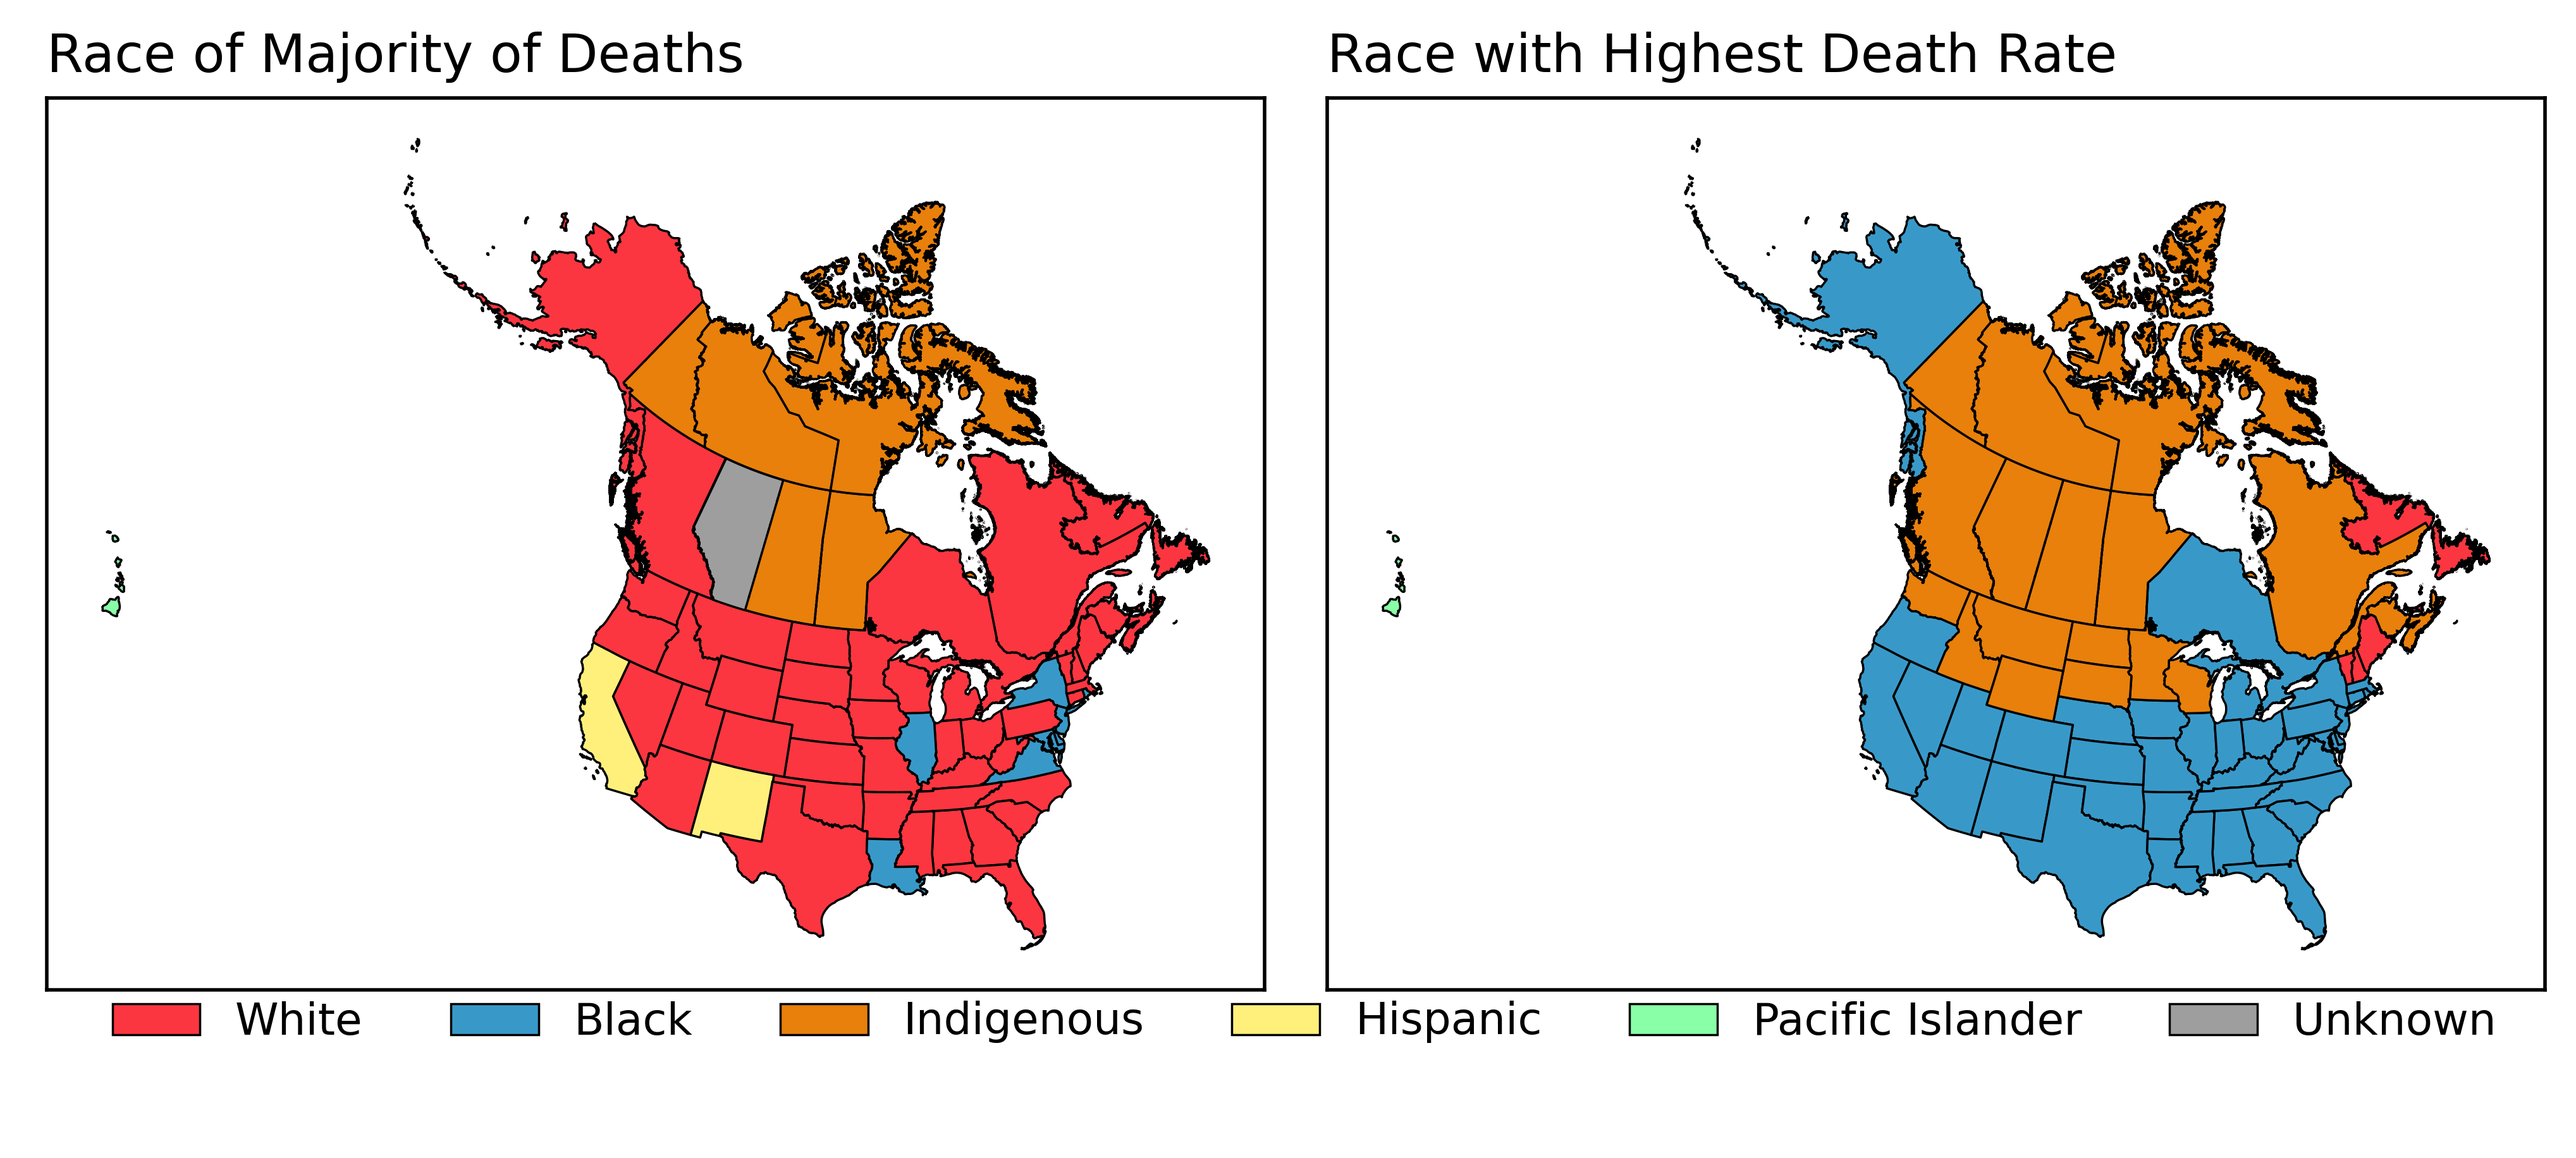
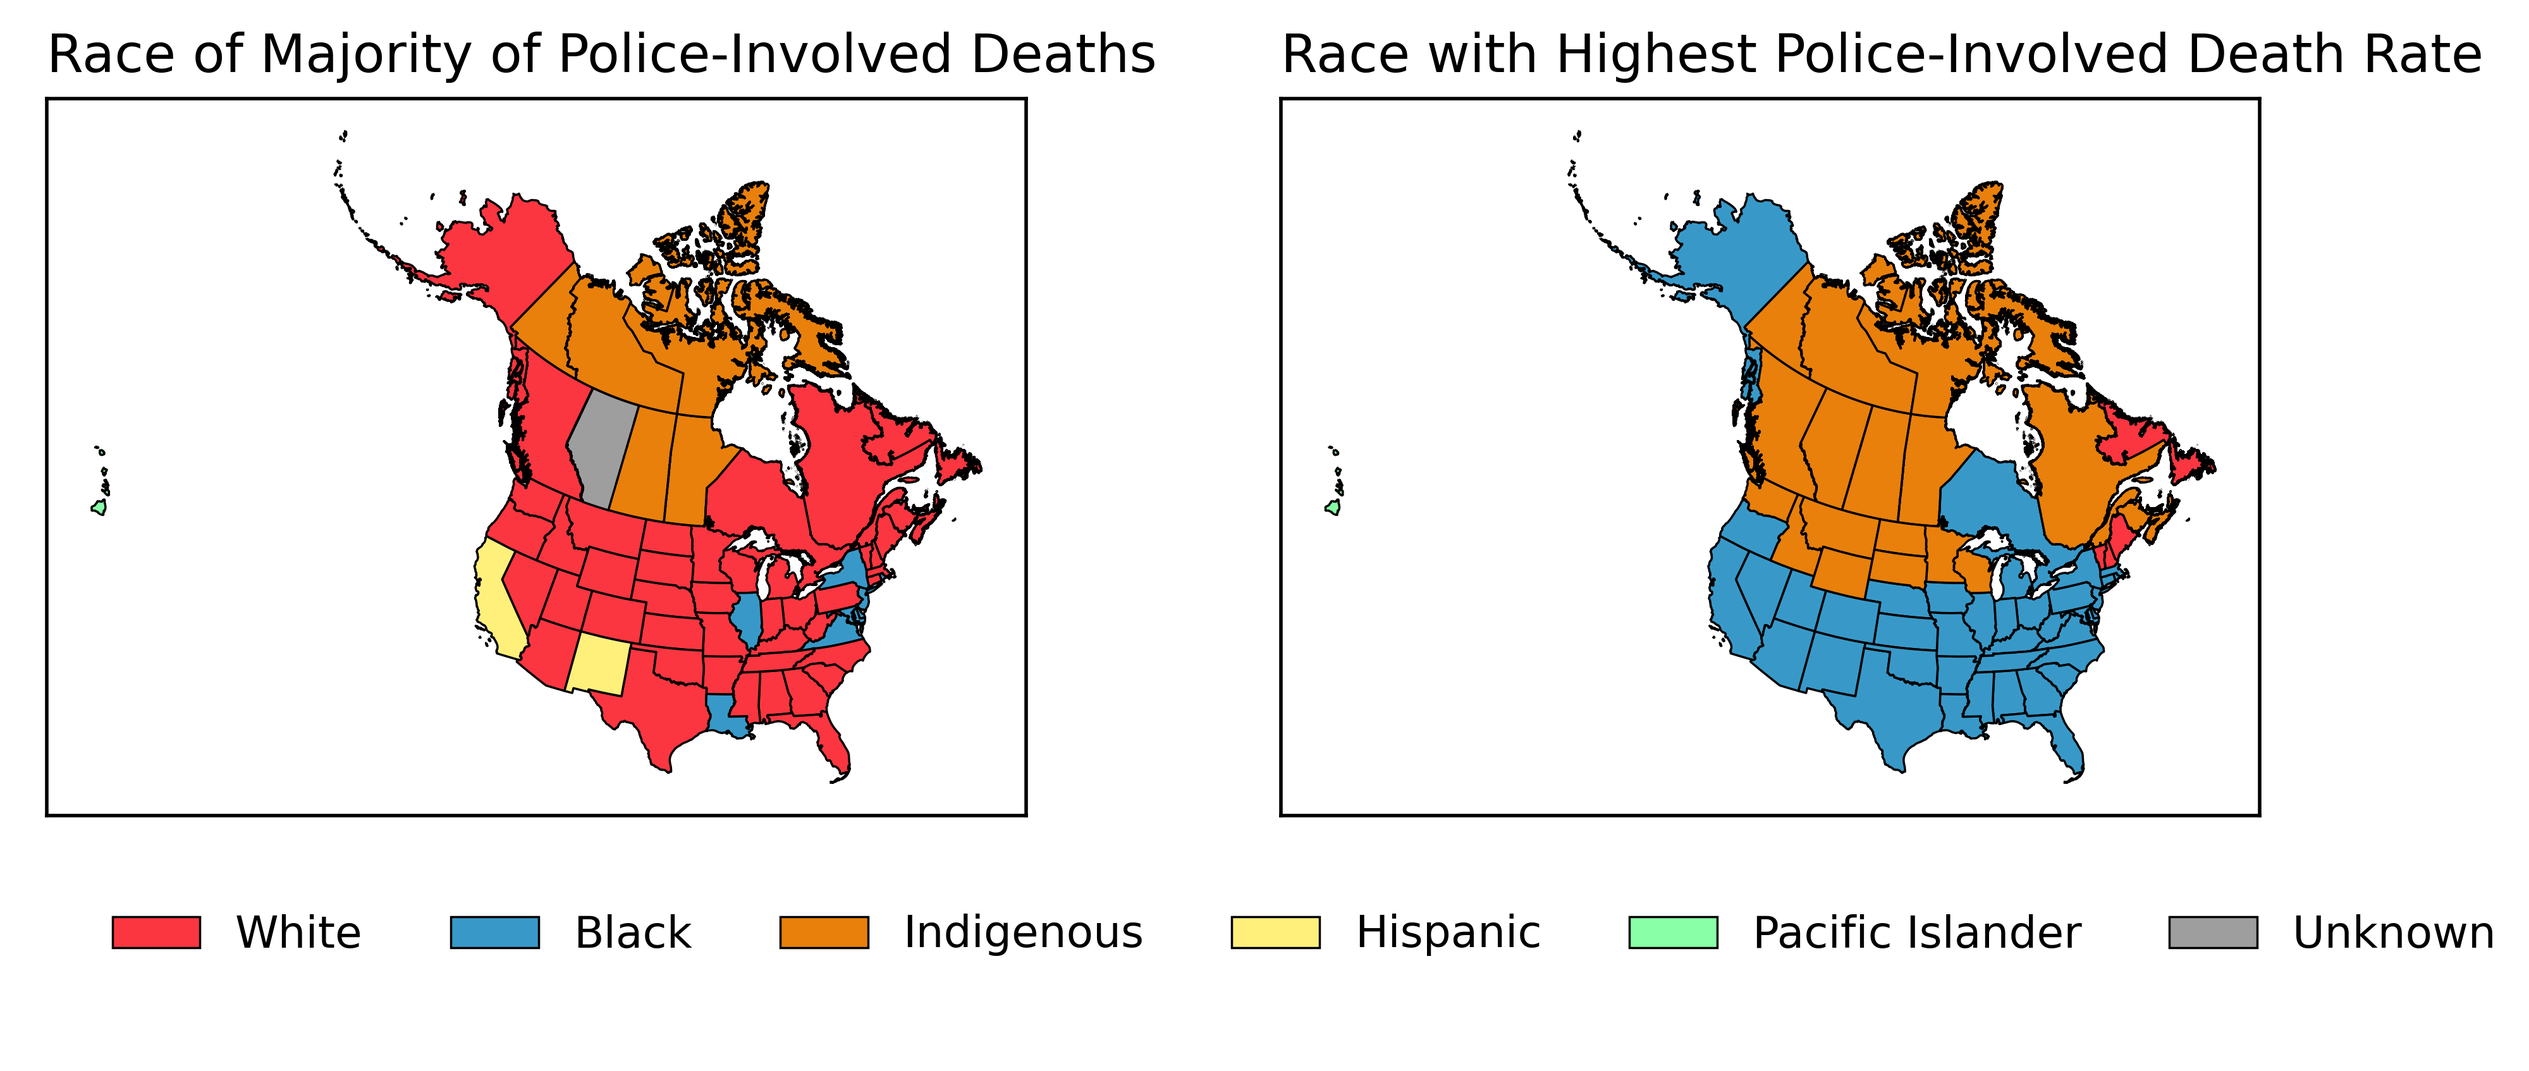
Final Updates

diff --git a/Content/NextSteps.md b/Content/NextSteps.md
@@ -5,7 +5,7 @@ nav_order: 4
 ---
 # Expanding the Dataset and Filling Gaps
 
-The Deadly Force dataset does not capture the full picture.  We need a broader, more inclusive account of all deaths that are occurring as a result of interactions with police in Canada.  I propose  
+The Deadly Force dataset does not capture the full picture.  We need a broader, more inclusive account of all deaths that are occurring as a result of interactions with police in Canada. 
 
 ### 1) Killings by off-duty & ex police officers
 * Domestic violence rates among police families are [two to four](https://www.theatlantic.com/national/archive/2014/09/police-officers-who-hit-their-wives-or-girlfriends/380329/) times higher than they are in the general public.
@@ -19,7 +19,7 @@ The Deadly Force dataset does not capture the full picture.  We need a broader, 
 
 ### 3) Deaths Occurring in Police Custody
 * There are many records of individuals in police custody being denied or delayed medical care.
-  * In one horrific case, a diabetic Indigenous man from [Baker Lake, NU](https://www.cbc.ca/news/canada/north/paul-kayuryuk-baker-lake-inquest-1.4231300) was found unconscious after suffering a stroke.  The police assumed he was intoxicated and kept him in a jail cell overnight.
+  * In one horrific case, an Indigenous man from [Baker Lake, NU](https://www.cbc.ca/news/canada/north/paul-kayuryuk-baker-lake-inquest-1.4231300) was found unconscious after suffering a stroke.  The police assumed he was intoxicated and kept him in a jail cell overnight.
 * Suicides in police custody are [oftentimes preventable](https://www.theglobeandmail.com/news/politics/womans-death-in-custody-exposes-indigenous-policing-issues/article32694835/).
 * Two men burned to death in a jail cell while being held for public intoxication at the [Kashechewan First Nation police detachment](https://www.cbc.ca/news/canada/kashechewan-fire-inquest-calls-for-more-funds-for-police-stations-training-1.819764).
 
@@ -46,7 +46,7 @@ The Deadly Force dataset does not capture the full picture.  We need a broader, 
 # Validating, Updating, and Expanding the Dataset
 Using the Deadly Force Dataset, the [Killercopscanada](https://killercopscanada.wordpress.com/) blog, and Google Searches, I have stared compiling a new, more comprehensive database of Police-Involved Deaths.
 * I have added all verifiable recrods from [Killercopscanada](https://killercopscanada.wordpress.com/) occuring after the CBC Deadly Force database ends (June 30, 2020).
-* I have begun working backwards through the DeadlyForce database to fill in missing incidients and update missing records.  So far, I have found 38 police-involved-deaths that were left out of the CBC dataset.  
+* I have begun working backwards through the DeadlyForce database to fill in missing incidients and update missing records.  So far, I have found 53 police-involved-deaths that were left out of the CBC dataset.  
   * I have only just begun this part of the process, there are many more missing records to be added.
 
 There have been *at least* 60 police-involved deaths that have occured since the dataset was published.
@@ -70,24 +70,39 @@ There have been *at least* 60 police-involved deaths that have occured since the
 
 As of 2017 (*2020 update does not include this information*), only 14 officers (3%) had been charged for a killing.  Regardless of whether an officer is charged with a crime, the departments involved are directly responsible for the deaths of these 634 individuals.
 
-### Deadliest Police Departments in Canada
+### Police-Involved Deaths by Departments
 
 |Rank|               Department                |Province|Killings|
 |---:|-----------------------------------------|--------|-------:|
-|   1|RCMP                                     |BC      |      87|
-|   2|Toronto Police Service                   |ON      |      66|
-|   3|RCMP                                     |AB      |      40|
+|   1|RCMP                                     |BC      |      91|
+|   2|Toronto Police Service                   |ON      |      67|
+|   3|RCMP                                     |AB      |      41|
 |   4|Ontario Provincial Police                |ON      |      36|
 |   5|Service de police de la Ville de Montréal|QC      |      35|
 |   6|Sûreté du Québec                         |QC      |      34|
 |   7|Edmonton Police Service                  |AB      |      31|
-|   8|Calgary Police Service                   |AB      |      28|
-|   9|Vancouver Police Department              |BC      |      26|
-|  10|Winnipeg Police Service                  |MB      |      22|
-|  11|Peel Regional Police                     |ON      |      18|
-|  12|Ottawa Police Service                    |ON      |      12|
-|  13|York Regional Police                     |ON      |      11|
-|  14|RCMP                                     |SK      |      10|
+|   8|Calgary Police Service                   |AB      |      29|
+|   9|Vancouver Police Department              |BC      |      27|
+|  10|Winnipeg Police Service                  |MB      |      26|
+|  11|Peel Regional Police                     |ON      |      17|
+|  12|Ottawa Police Service                    |ON      |      14|
+|  13|RCMP                                     |SK      |      11|
+|  14|York Regional Police                     |ON      |      10|
+
+<div style="overflow: hidden;
+  padding-top: 56.25%;
+  position: relative">
+  <iframe src="PoliceViolenceIncidents.html" title="Processes" scrolling="no" frameborder="0"
+    style="border: 0;
+   height: 100%;
+   left: 0;
+   position: absolute;
+   top: 0;
+   width: 100%;">
+   <p>Your browser does not support iframes.</p>
+ </iframe>
+</div>
+<a href="PoliceViolenceIncidents.html" target="_blank">View Image in New Tab</a>
 
 # Sharing the Information  
 

diff --git a/Content/Flaws.md b/Content/Flaws.md
@@ -12,7 +12,7 @@ nav_order: 3
 
 3) There are many missing/incomplete records in their data.  The victims' race is Unknown in 136 incidents, their names are missing in 45 incidents and the cause of death is Unknown in 22 incidents.
 
-* The CBC database has missing incidents entirely, including *at least* three shootings, a tasing, a death from a police dog, and two [starlight tours](https://www.canadaland.com/podcast/the-police-4-starlight-tours/).  A starlight tour is when police abduct Indigenous individuals and drop them off in rural areas.  When done in the winter, some victims  freeze to death.  I asked the CBC why the starlight tour deaths of Rodney Naistus and Lawrence Wegner in January and February 2000 at the hands of the Saskatoon Police were not included in the database.
+* The CBC database has missing incidents entirely, including: *at least* four shootings, multiple tazings, a death from a police dog, and two [starlight tours](https://www.canadaland.com/podcast/the-police-4-starlight-tours/).  A starlight tour is when police abduct Indigenous individuals and drop them off in rural areas.  When done in the winter, some victims  freeze to death.  I asked the CBC why the starlight tour deaths of Rodney Naistus and Lawrence Wegner in January and February 2000 at the hands of the Saskatoon Police were not included in the database.
 	* *"While their deaths were very likely a result of starlight tours by the Saskatoon police, they were not added to the database because there is no record of police officers picking them up. The inquests into their deaths were also inconclusive. Because of the lack of definitive proof, it was decided not to include them in the database."*
 
 

diff --git a/Content/Looking_At_the_Data.md b/Content/Looking_At_the_Data.md
@@ -46,7 +46,7 @@ The most comprehensive publicly available dataset on police killings in Canada i
 # Racial Breakdown
 
 To highlight the uneven distribution of deaths across demographic groups, I've calculated the police-involved death rates for each group using 2016 census data.  Specifically the [Visible minority](https://www23.statcan.gc.ca/imdb/p3Var.pl?Function=DEC&Id=45152) and [Aboriginal identity](https://www23.statcan.gc.ca/imdb/p3Var.pl?Function=DEC&Id=42927) variables.
-* The victims' race is Unknown in 195 (30%) of the incidents, this means the numbers for across racial groups are likely higher than reported.  
+* The victims' race is Unknown in 210 (30%) of the incidents, this means the numbers for across racial groups are likely higher than reported.  
 
 <div style="overflow: hidden;
   padding-top: 56.25%;

diff --git a/index.md b/index.md
@@ -26,7 +26,7 @@ Candian instututions rely on the lack of race based statistics to perpetuate a n
 
 2) More about the data: What's available and what's lacking?
 
-3) Next steps: Filling the gaps and disseminating the information.
+3) Next steps: Filling gaps and disseminating the information.
 
 # Notes on Terminology
 
